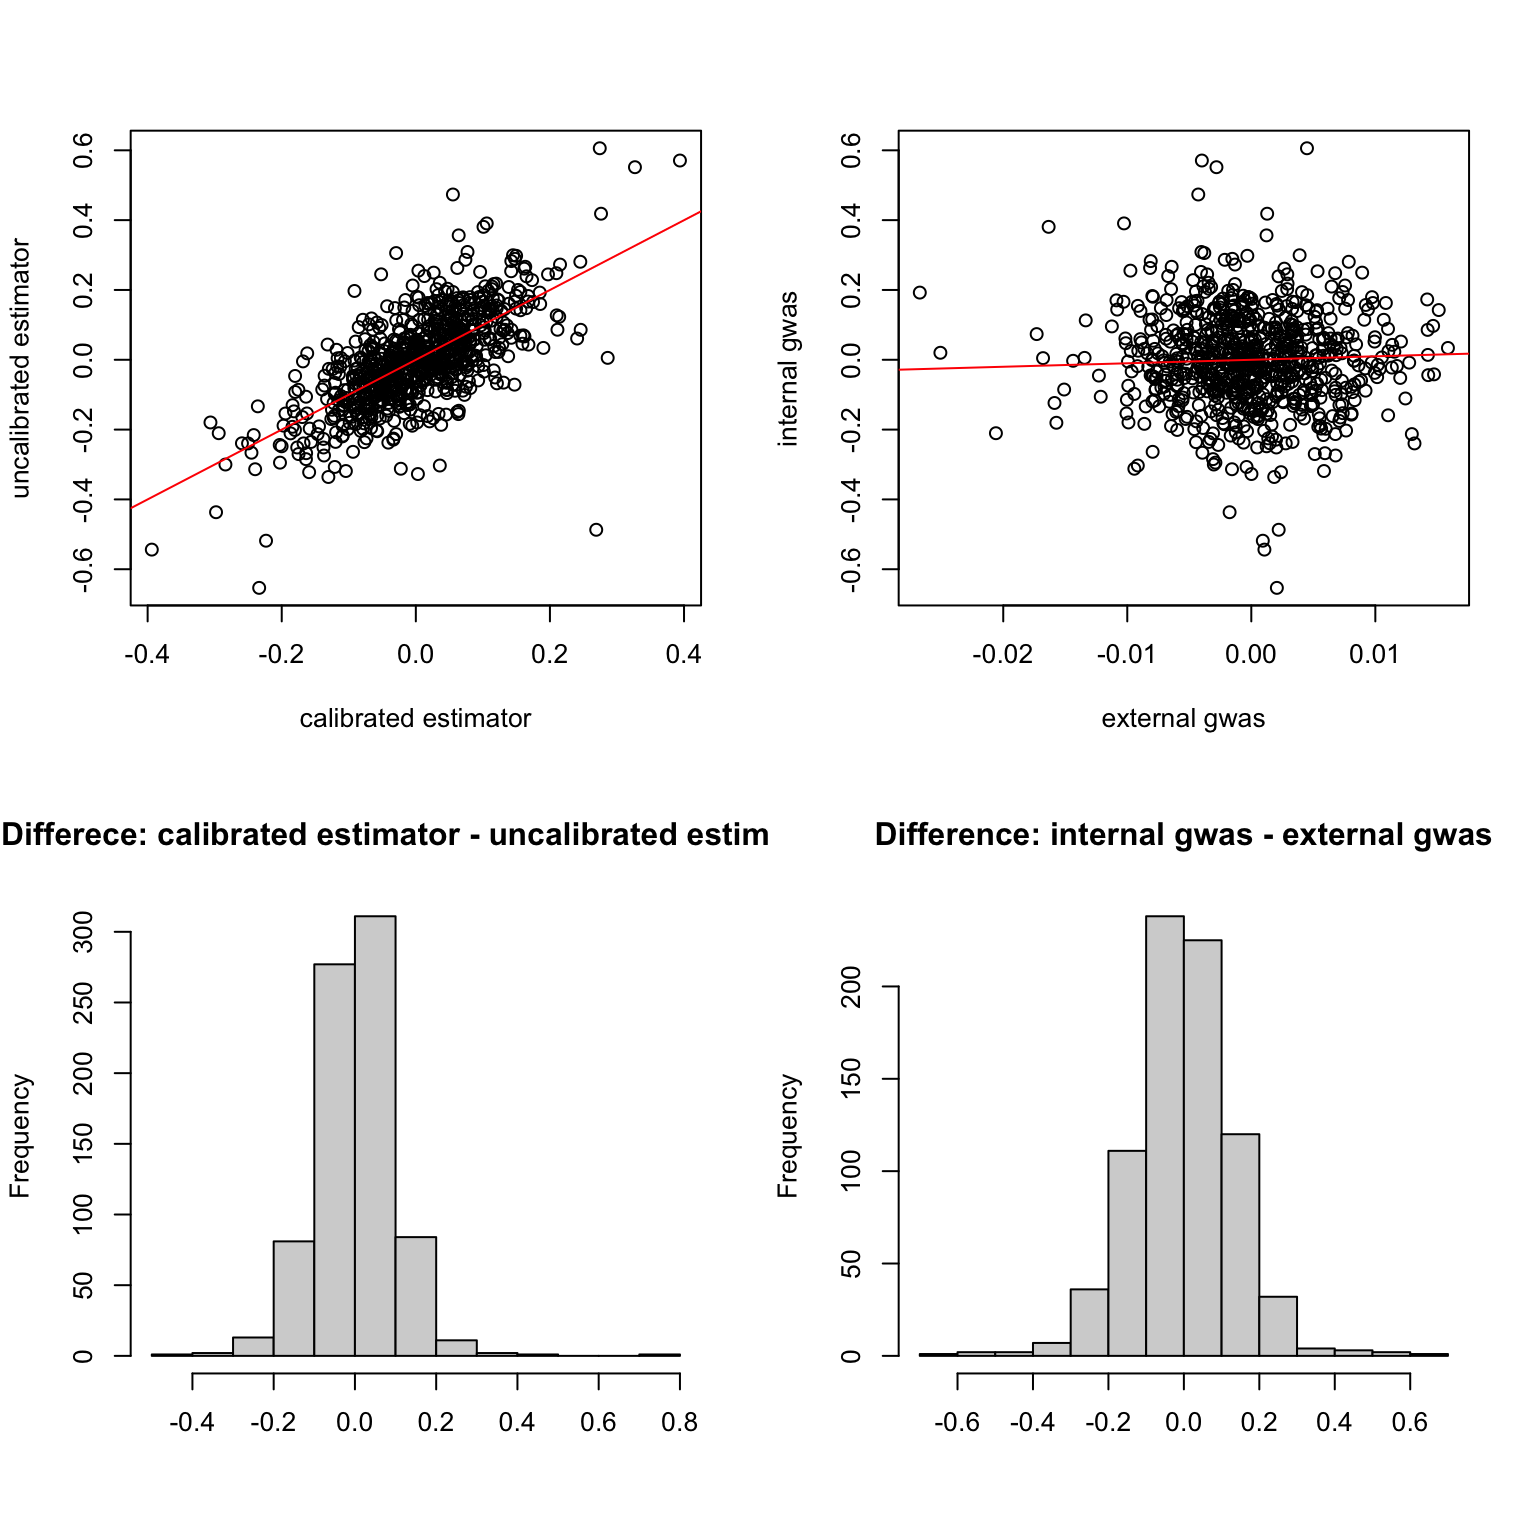
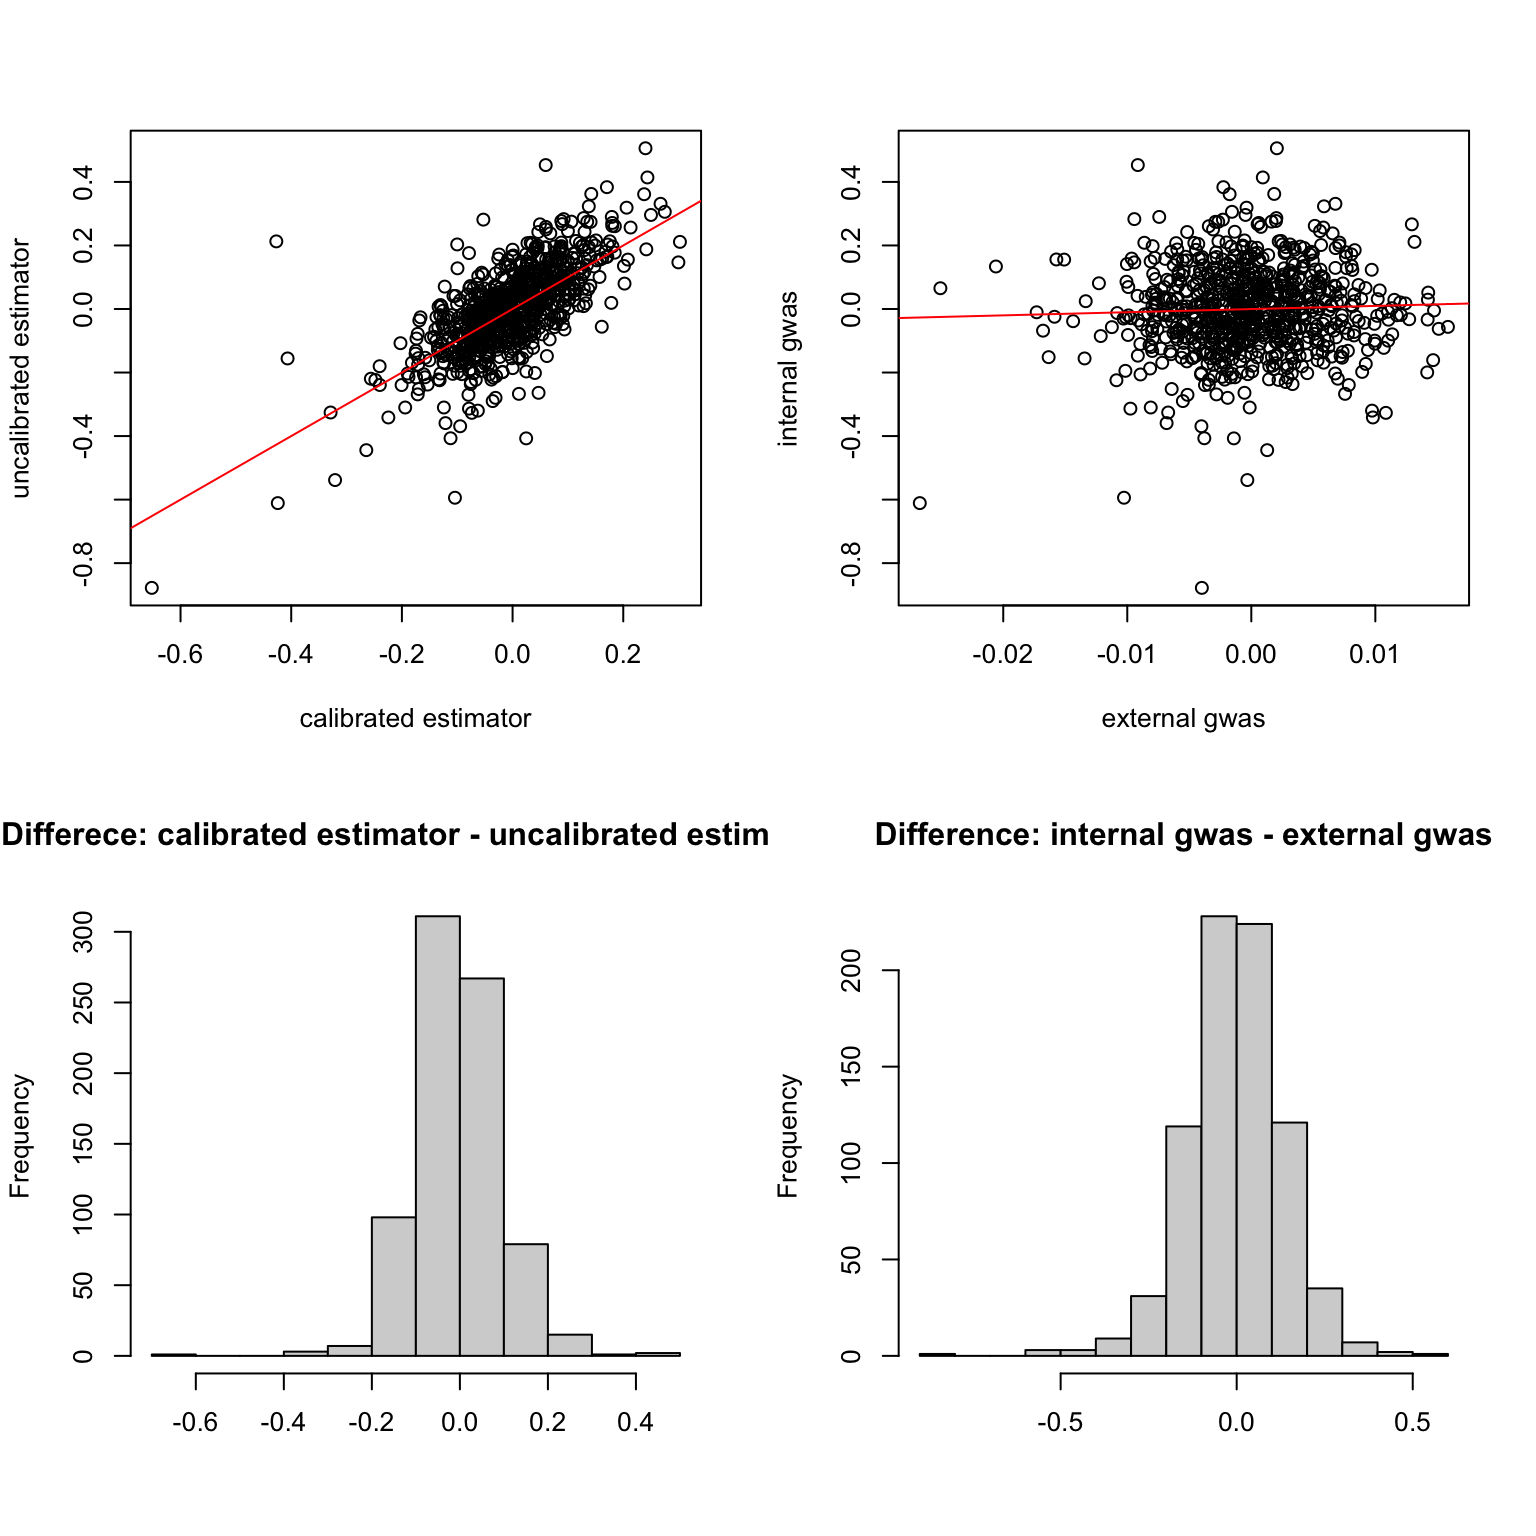
Build site.

diff --git a/docs/ukb_trait_calibration_trio.html b/docs/ukb_trait_calibration_trio.html
@@ -384,7 +384,7 @@ div.tocify {
 <div class="tab-content">
 <div id="summary" class="tab-pane fade in active">
 <p>
-<strong>Last updated:</strong> 2024-05-18
+<strong>Last updated:</strong> 2024-05-26
 </p>
 <p>
 <strong>Checks:</strong> <span class="glyphicon glyphicon-ok text-success" aria-hidden="true"></span> 7 <span class="glyphicon glyphicon-exclamation-sign text-danger" aria-hidden="true"></span> 0
@@ -475,23 +475,22 @@ This reproducible <a href="http://rmarkdown.rstudio.com">R Markdown</a> analysis
 <div class="panel panel-default">
 <div class="panel-heading">
 <p class="panel-title">
-<a data-toggle="collapse" data-parent="#workflowr-checks" href="#strongRepositoryversionstrongahrefhttpsgithubcomyunqiyang0215simulationcalibratedmrtree025210a767b349468cbbf42df259104e27b66cd9targetblank025210aa"> <span class="glyphicon glyphicon-ok text-success" aria-hidden="true"></span> <strong>Repository version:</strong> <a href="https://github.com/yunqiyang0215/simulation-calibrated-mr/tree/025210a767b349468cbbf42df259104e27b66cd9" target="_blank">025210a</a> </a>
+<a data-toggle="collapse" data-parent="#workflowr-checks" href="#strongRepositoryversionstrongahrefhttpsgithubcomyunqiyang0215simulationcalibratedmrtree0873bdcff7e5ced15113ee97bb61e4047d23b6c4targetblank0873bdca"> <span class="glyphicon glyphicon-ok text-success" aria-hidden="true"></span> <strong>Repository version:</strong> <a href="https://github.com/yunqiyang0215/simulation-calibrated-mr/tree/0873bdcff7e5ced15113ee97bb61e4047d23b6c4" target="_blank">0873bdc</a> </a>
 </p>
 </div>
[2 lines of base64/hex data omitted]
 <div class="panel-body">
 <p>
 Great! You are using Git for version control. Tracking code development and connecting the code version to the results is critical for reproducibility.
 </p>
 <p>
-The results in this page were generated with repository version <a href="https://github.com/yunqiyang0215/simulation-calibrated-mr/tree/025210a767b349468cbbf42df259104e27b66cd9" target="_blank">025210a</a>. See the <em>Past versions</em> tab to see a history of the changes made to the R Markdown and HTML files.
+The results in this page were generated with repository version <a href="https://github.com/yunqiyang0215/simulation-calibrated-mr/tree/0873bdcff7e5ced15113ee97bb61e4047d23b6c4" target="_blank">0873bdc</a>. See the <em>Past versions</em> tab to see a history of the changes made to the R Markdown and HTML files.
 </p>
 <p>
 Note that you need to be careful to ensure that all relevant files for the analysis have been committed to Git prior to generating the results (you can use <code>wflow_publish</code> or <code>wflow_git_commit</code>). workflowr only checks the R Markdown file, but you know if there are other scripts or data files that it depends on. Below is the status of the Git repository when the results were generated:
 </p>
 <pre><code>
 Ignored files:
-    Ignored:    .Rhistory
     Ignored:    .Rproj.user/
 
 </code></pre>
@@ -531,6 +530,40 @@ Message
 </tr>
 </thead>
 <tbody>
+<tr>
+<td>
+Rmd
+</td>
+<td>
+<a href="https://github.com/yunqiyang0215/simulation-calibrated-mr/blob/0873bdcff7e5ced15113ee97bb61e4047d23b6c4/analysis/ukb_trait_calibration_trio.Rmd" target="_blank">0873bdc</a>
+</td>
+<td>
+yunqiyang0215
+</td>
+<td>
+2024-05-26
+</td>
+<td>
+wflow_publish("analysis/ukb_trait_calibration_trio.Rmd")
+</td>
+</tr>
+<tr>
+<td>
+html
+</td>
+<td>
+<a href="https://rawcdn.githack.com/yunqiyang0215/simulation-calibrated-mr/284afdc50a0c1c045d7a57b1ccbdb625af5198a3/docs/ukb_trait_calibration_trio.html" target="_blank">284afdc</a>
+</td>
+<td>
+yunqiyang0215
+</td>
+<td>
+2024-05-18
+</td>
+<td>
+Build site.
+</td>
+</tr>
 <tr>
 <td>
 Rmd
@@ -786,6 +819,17 @@ Date
 <tbody>
 <tr>
 <td>
+<a href="https://github.com/yunqiyang0215/simulation-calibrated-mr/blob/284afdc50a0c1c045d7a57b1ccbdb625af5198a3/docs/figure/ukb_trait_calibration_trio.Rmd/unnamed-chunk-3-1.png" target="_blank">284afdc</a>
+</td>
+<td>
+yunqiyang0215
+</td>
+<td>
+2024-05-18
+</td>
+</tr>
+<tr>
+<td>
 <a href="https://github.com/yunqiyang0215/simulation-calibrated-mr/blob/721bdc76c948513281d4d8fc6e1a8298b1065c48/docs/figure/ukb_trait_calibration_trio.Rmd/unnamed-chunk-3-1.png" target="_blank">721bdc7</a>
 </td>
 <td>
@@ -875,6 +919,17 @@ Date
 <tbody>
 <tr>
 <td>
+<a href="https://github.com/yunqiyang0215/simulation-calibrated-mr/blob/284afdc50a0c1c045d7a57b1ccbdb625af5198a3/docs/figure/ukb_trait_calibration_trio.Rmd/unnamed-chunk-6-1.png" target="_blank">284afdc</a>
+</td>
+<td>
+yunqiyang0215
+</td>
+<td>
+2024-05-18
+</td>
+</tr>
+<tr>
+<td>
 <a href="https://github.com/yunqiyang0215/simulation-calibrated-mr/blob/9420878bdc72785a918f8a0cd12e01915efe7276/docs/figure/ukb_trait_calibration_trio.Rmd/unnamed-chunk-6-1.png" target="_blank">9420878</a>
 </td>
 <td>
@@ -947,6 +1002,17 @@ Date
 </tr>
 </thead>
 <tbody>
+<tr>
+<td>
+<a href="https://github.com/yunqiyang0215/simulation-calibrated-mr/blob/284afdc50a0c1c045d7a57b1ccbdb625af5198a3/docs/figure/ukb_trait_calibration_trio.Rmd/unnamed-chunk-10-1.png" target="_blank">284afdc</a>
+</td>
+<td>
+yunqiyang0215
+</td>
+<td>
+2024-05-18
+</td>
+</tr>
 <tr>
 <td>
 <a href="https://github.com/yunqiyang0215/simulation-calibrated-mr/blob/2b40156f862267404ceb918f4ab9de4c12eead62/docs/figure/ukb_trait_calibration_trio.Rmd/unnamed-chunk-10-1.png" target="_blank">2b40156</a>
@@ -1058,6 +1124,17 @@ Date
 <tbody>
 <tr>
 <td>
+<a href="https://github.com/yunqiyang0215/simulation-calibrated-mr/blob/284afdc50a0c1c045d7a57b1ccbdb625af5198a3/docs/figure/ukb_trait_calibration_trio.Rmd/unnamed-chunk-13-1.png" target="_blank">284afdc</a>
+</td>
+<td>
+yunqiyang0215
+</td>
+<td>
+2024-05-18
+</td>
+</tr>
+<tr>
+<td>
 <a href="https://github.com/yunqiyang0215/simulation-calibrated-mr/blob/2b40156f862267404ceb918f4ab9de4c12eead62/docs/figure/ukb_trait_calibration_trio.Rmd/unnamed-chunk-13-1.png" target="_blank">2b40156</a>
 </td>
 <td>
@@ -1142,6 +1219,17 @@ Date
 <tbody>
 <tr>
 <td>
+<a href="https://github.com/yunqiyang0215/simulation-calibrated-mr/blob/284afdc50a0c1c045d7a57b1ccbdb625af5198a3/docs/figure/ukb_trait_calibration_trio.Rmd/unnamed-chunk-17-1.png" target="_blank">284afdc</a>
+</td>
+<td>
+yunqiyang0215
+</td>
+<td>
+2024-05-18
+</td>
+</tr>
+<tr>
+<td>
 <a href="https://github.com/yunqiyang0215/simulation-calibrated-mr/blob/2b40156f862267404ceb918f4ab9de4c12eead62/docs/figure/ukb_trait_calibration_trio.Rmd/unnamed-chunk-17-1.png" target="_blank">2b40156</a>
 </td>
 <td>
@@ -1220,6 +1308,17 @@ Date
 <tbody>
 <tr>
 <td>
+<a href="https://github.com/yunqiyang0215/simulation-calibrated-mr/blob/284afdc50a0c1c045d7a57b1ccbdb625af5198a3/docs/figure/ukb_trait_calibration_trio.Rmd/unnamed-chunk-20-1.png" target="_blank">284afdc</a>
+</td>
+<td>
+yunqiyang0215
+</td>
+<td>
+2024-05-18
+</td>
+</tr>
+<tr>
+<td>
 <a href="https://github.com/yunqiyang0215/simulation-calibrated-mr/blob/2b40156f862267404ceb918f4ab9de4c12eead62/docs/figure/ukb_trait_calibration_trio.Rmd/unnamed-chunk-20-1.png" target="_blank">2b40156</a>
 </td>
 <td>
@@ -1280,6 +1379,17 @@ Date
 </tr>
 </thead>
 <tbody>
+<tr>
+<td>
+<a href="https://github.com/yunqiyang0215/simulation-calibrated-mr/blob/284afdc50a0c1c045d7a57b1ccbdb625af5198a3/docs/figure/ukb_trait_calibration_trio.Rmd/unnamed-chunk-24-1.png" target="_blank">284afdc</a>
+</td>
+<td>
+yunqiyang0215
+</td>
+<td>
+2024-05-18
+</td>
+</tr>
 <tr>
 <td>
 <a href="https://github.com/yunqiyang0215/simulation-calibrated-mr/blob/2b40156f862267404ceb918f4ab9de4c12eead62/docs/figure/ukb_trait_calibration_trio.Rmd/unnamed-chunk-24-1.png" target="_blank">2b40156</a>
@@ -1367,6 +1477,17 @@ Date
 </tr>
 </thead>
 <tbody>
+<tr>
+<td>
+<a href="https://github.com/yunqiyang0215/simulation-calibrated-mr/blob/284afdc50a0c1c045d7a57b1ccbdb625af5198a3/docs/figure/ukb_trait_calibration_trio.Rmd/unnamed-chunk-27-1.png" target="_blank">284afdc</a>
+</td>
+<td>
+yunqiyang0215
+</td>
+<td>
+2024-05-18
+</td>
+</tr>
 <tr>
 <td>
 <a href="https://github.com/yunqiyang0215/simulation-calibrated-mr/blob/2b40156f862267404ceb918f4ab9de4c12eead62/docs/figure/ukb_trait_calibration_trio.Rmd/unnamed-chunk-27-1.png" target="_blank">2b40156</a>
@@ -1469,6 +1590,17 @@ Date
 <tbody>
 <tr>
 <td>
+<a href="https://github.com/yunqiyang0215/simulation-calibrated-mr/blob/284afdc50a0c1c045d7a57b1ccbdb625af5198a3/docs/figure/ukb_trait_calibration_trio.Rmd/unnamed-chunk-32-1.png" target="_blank">284afdc</a>
+</td>
+<td>
+yunqiyang0215
+</td>
+<td>
+2024-05-18
+</td>
+</tr>
+<tr>
+<td>
 <a href="https://github.com/yunqiyang0215/simulation-calibrated-mr/blob/2b40156f862267404ceb918f4ab9de4c12eead62/docs/figure/ukb_trait_calibration_trio.Rmd/unnamed-chunk-32-1.png" target="_blank">2b40156</a>
 </td>
 <td>
@@ -1483,9 +1615,9 @@ yunqiyang0215
 </div>
 </div>
 <pre class="r"><code>cor(dat$cali, dat$raw)</code></pre>
-<pre><code>[1] 0.6865699</code></pre>
+<pre><code>[1] 0.7034617</code></pre>
 <pre class="r"><code>cor(dat$BETA, dat$int)</code></pre>
-<pre><code>[1] -0.04101158</code></pre>
+<pre><code>[1] 0.053</code></pre>
 <pre class="r"><code>fit = lm(dat$int ~ dat$BETA)
 summary(fit)</code></pre>
 <pre><code>
@@ -1494,16 +1626,16 @@ lm(formula = dat$int ~ dat$BETA)
 
 Residuals:
      Min       1Q   Median       3Q      Max 
--0.64954 -0.08210 -0.00163  0.08261  0.61221 
+-0.87122 -0.08111 -0.00076  0.08443  0.50449 
 
 Coefficients:
              Estimate Std. Error t value Pr(&gt;|t|)
-(Intercept) -0.001779   0.004855  -0.366    0.714
-dat$BETA    -1.009679   0.879646  -1.148    0.251
+(Intercept) -0.001295   0.004934  -0.262    0.793
+dat$BETA     1.326893   0.894017   1.484    0.138
 
-Residual standard error: 0.1358 on 782 degrees of freedom
-Multiple R-squared:  0.001682,  Adjusted R-squared:  0.0004053 
-F-statistic: 1.318 on 1 and 782 DF,  p-value: 0.2514</code></pre>
+Residual standard error: 0.138 on 782 degrees of freedom
+Multiple R-squared:  0.002809,  Adjusted R-squared:  0.001534 
+F-statistic: 2.203 on 1 and 782 DF,  p-value: 0.1382</code></pre>
 <pre class="r"><code>pval.ext = pnorm(abs(dat$BETA/dat$SE), lower.tail = FALSE)
 pval.cali = pnorm(abs(dat$cali/sqrt(dat$cali.var)), lower.tail = FALSE)
 pval.uncali = pnorm(abs(dat$raw/sqrt(dat$raw.var)), lower.tail = FALSE)
@@ -1511,9 +1643,9 @@ pval.uncali = pnorm(abs(dat$raw/sqrt(dat$raw.var)), lower.tail = FALSE)
 sum(pval.ext &lt; 1e-8)</code></pre>
 <pre><code>[1] 1</code></pre>
 <pre class="r"><code>sum(pval.cali &lt; 1e-3)</code></pre>
-<pre><code>[1] 7</code></pre>
+<pre><code>[1] 2</code></pre>
 <pre class="r"><code>sum(pval.uncali &lt; 1e-3)</code></pre>
-<pre><code>[1] 4</code></pre>
+<pre><code>[1] 2</code></pre>
 <div id="calibration-result-4" class="section level4">
 <h4>Calibration result</h4>
 <pre class="r"><code>par(mfrow = c(1, 2))
@@ -1545,6 +1677,17 @@ Date
 <tbody>
 <tr>
 <td>
+<a href="https://github.com/yunqiyang0215/simulation-calibrated-mr/blob/284afdc50a0c1c045d7a57b1ccbdb625af5198a3/docs/figure/ukb_trait_calibration_trio.Rmd/unnamed-chunk-35-1.png" target="_blank">284afdc</a>
+</td>
+<td>
+yunqiyang0215
+</td>
+<td>
+2024-05-18
+</td>
+</tr>
+<tr>
+<td>
 <a href="https://github.com/yunqiyang0215/simulation-calibrated-mr/blob/2b40156f862267404ceb918f4ab9de4c12eead62/docs/figure/ukb_trait_calibration_trio.Rmd/unnamed-chunk-35-1.png" target="_blank">2b40156</a>
 </td>
 <td>
@@ -1559,8 +1702,31 @@ yunqiyang0215
 </div>
 </div>
 <pre class="r"><code>dat[vr &lt; 0.2, c(&quot;variant&quot;, &quot;allele.test&quot;, &quot;cali.var&quot;, &quot;raw.var&quot;)]</code></pre>
-<pre><code>       variant allele.test   cali.var    raw.var
-121 rs11980825           T 0.01345844 0.06877947</code></pre>
+<pre><code>[1] variant     allele.test cali.var    raw.var    
+&lt;0 rows&gt; (or 0-length row.names)</code></pre>
+</div>
+</div>
+<div id="summary" class="section level3">
+<h3>Summary</h3>
+<pre class="r"><code>bmi = readRDS(&quot;/Users/nicholeyang/Downloads/calibrated_estimator/real-data-analysis/result/trio_calibration_bmi.rds&quot;)
+sbp = readRDS(&quot;/Users/nicholeyang/Downloads/calibrated_estimator/real-data-analysis/result/trio_calibration_sbp.rds&quot;)
+dbp = readRDS(&quot;/Users/nicholeyang/Downloads/calibrated_estimator/real-data-analysis/result/trio_calibration_dbp.rds&quot;)
+diabetes = readRDS(&quot;/Users/nicholeyang/Downloads/calibrated_estimator/real-data-analysis/result/trio_calibration_diabetes.rds&quot;)
+edu = readRDS(&quot;/Users/nicholeyang/Downloads/calibrated_estimator/real-data-analysis/result/trio_calibration_education_yrs.rds&quot;)</code></pre>
+<pre class="r"><code>dat = list(bmi, sbp, dbp, diabetes, edu)
+for (i in 1:length(dat)){
+  dat[[i]] = as.data.frame(dat[[i]])
+  dat[[i]][, c(3:8)] = apply(dat[[i]][, c(3:8)], 2, as.numeric)
+}</code></pre>
+<pre class="r"><code>diff = sapply(1:5, function(i) dat[[i]]$cali - dat[[i]]$raw)
+vr =  sapply(1:5, function(i) 1 - dat[[i]]$cali.var/dat[[i]]$raw.var)
+colnames(diff) = c(&quot;bmi&quot;, &quot;sbp&quot;, &quot;dbp&quot;, &quot;diabetes&quot;, &quot;education years&quot;)
+colnames(vr) = c(&quot;bmi&quot;, &quot;sbp&quot;, &quot;dbp&quot;, &quot;diabetes&quot;, &quot;education years&quot;)</code></pre>
+<pre class="r"><code>par(mfrow = c(1,2))
+boxplot(diff, main = &quot;Difference beween calibrated estimator and raw estimator&quot;, 
+        ylab = &quot;&quot;, names = colnames(diff), pch = 20, cex = 0.6)
+boxplot(vr, main = &quot;variance reduction&quot;,names = colnames(diff), pch = 20, cex = 0.6)</code></pre>
+<p><img src="figure/ukb_trait_calibration_trio.Rmd/unnamed-chunk-40-1.png" width="960" style="display: block; margin: auto;" /></p>
 <br>
 <p>
 <button type="button" class="btn btn-default btn-workflowr btn-workflowr-sessioninfo" data-toggle="collapse" data-target="#workflowr-sessioninfo" style="display: block;">
@@ -1597,7 +1763,6 @@ loaded via a namespace (and not attached):
 [29] fs_1.5.0         cachem_1.0.6     glue_1.4.2       evaluate_0.14   
 [33] rmarkdown_2.11   stringi_1.7.5    bslib_0.4.1      compiler_4.1.1  
 [37] pillar_1.9.0     jsonlite_1.7.2   httpuv_1.6.3     pkgconfig_2.0.3 </code></pre>
-</div>
 </div>
 </div>
 

diff --git a/docs/site_libs/navigation-1.1/codefolding.js b/docs/site_libs/navigation-1.1/codefolding.js
@@ -19,8 +19,6 @@ window.initializeCodeFolding = function(show) {
   // select all R code blocks
   var rCodeBlocks = $('pre.r, pre.python, pre.bash, pre.sql, pre.cpp, pre.stan, pre.julia, pre.foldable');
   rCodeBlocks.each(function() {
-    // skip if the block has fold-none class
-    if ($(this).hasClass('fold-none')) return;
 
     // create a collapsable div to wrap the code in
     var div = $('<div class="collapse r-code-collapse"></div>');
@@ -36,9 +34,7 @@ window.initializeCodeFolding = function(show) {
     showCodeButton.append(showCodeText);
     showCodeButton
         .attr('data-toggle', 'collapse')
-        .attr('data-bs-toggle', 'collapse') // BS5
         .attr('data-target', '#' + id)
-        .attr('data-bs-target', '#' + id)   // BS5
         .attr('aria-expanded', showThis)
         .attr('aria-controls', id);
 
